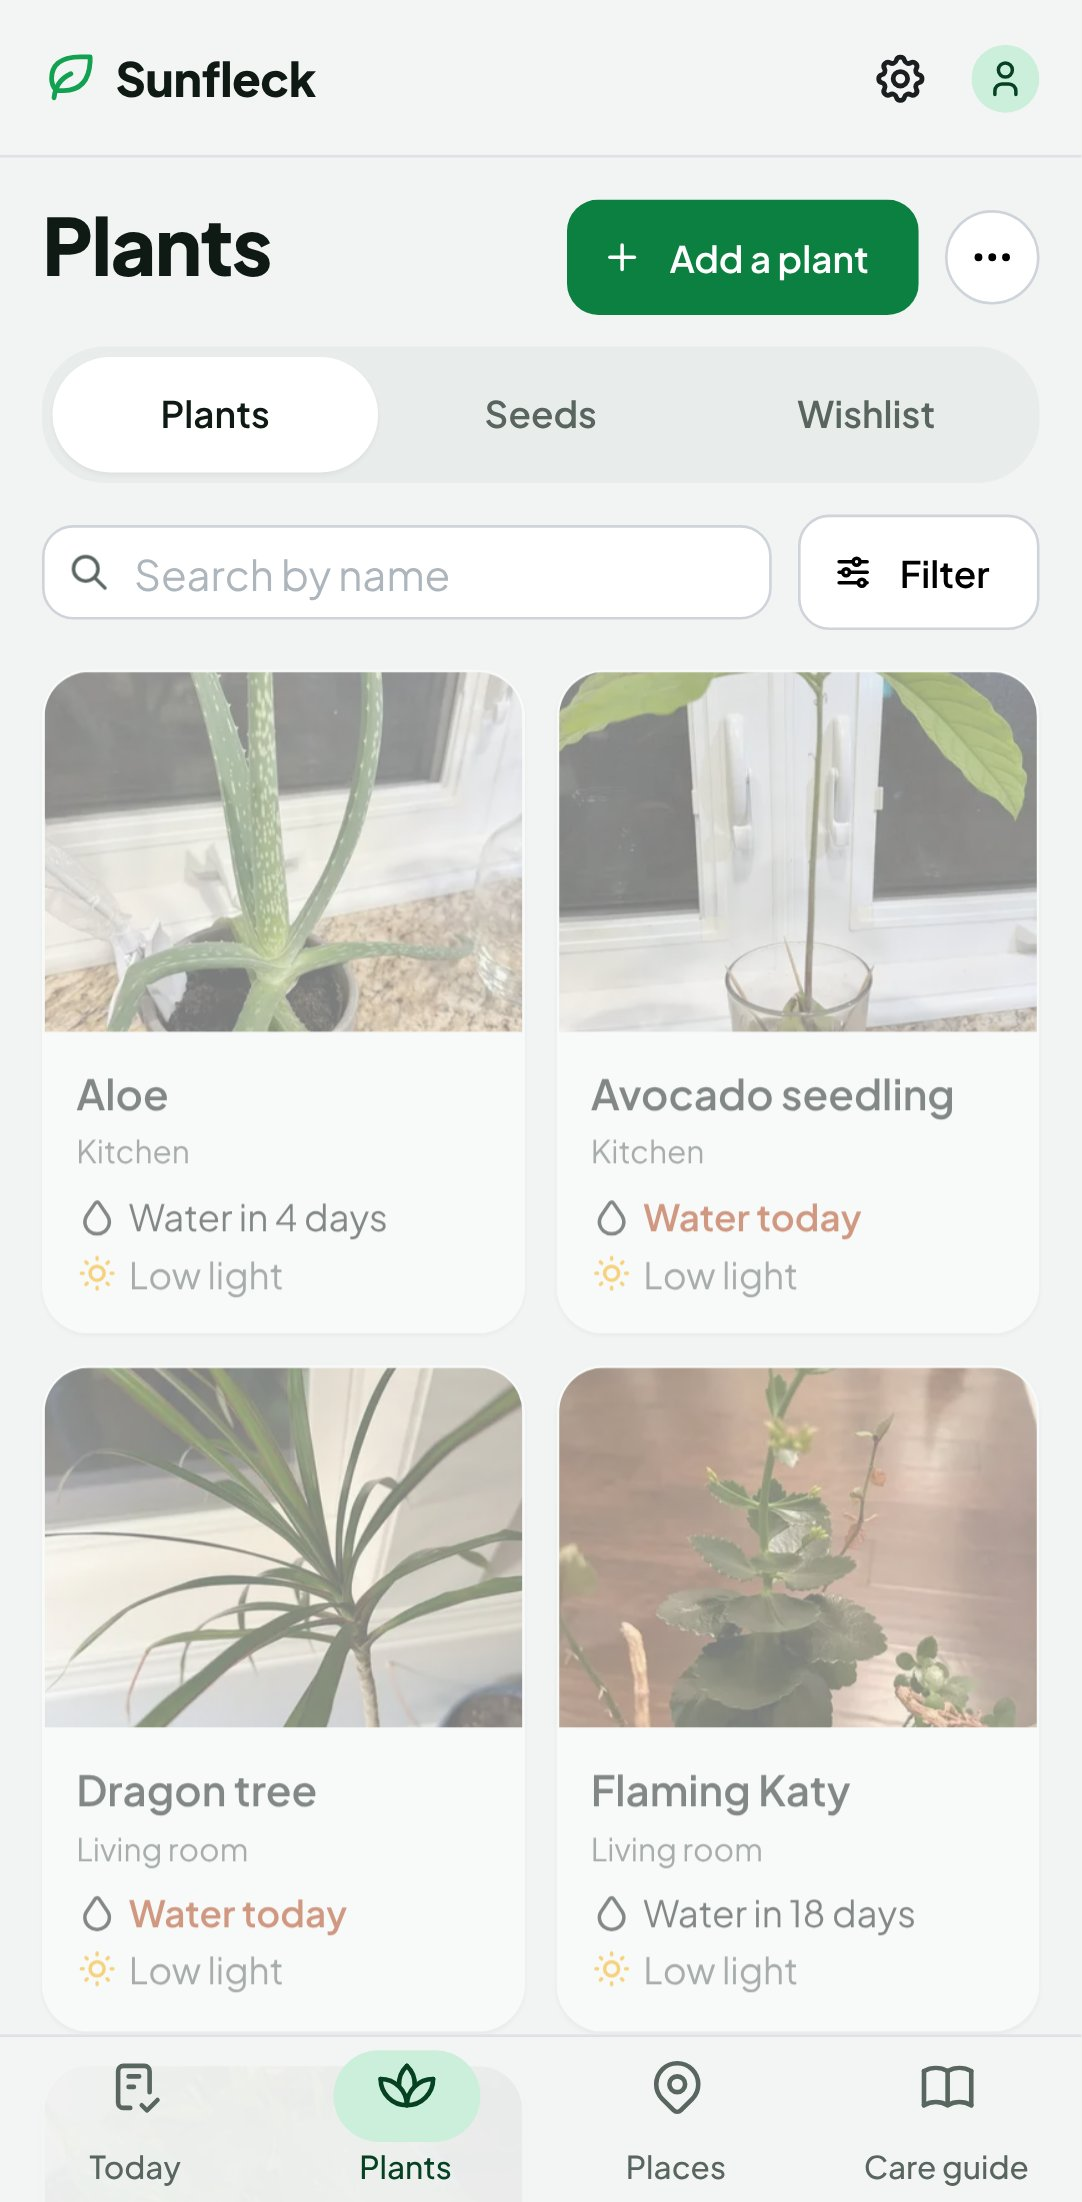
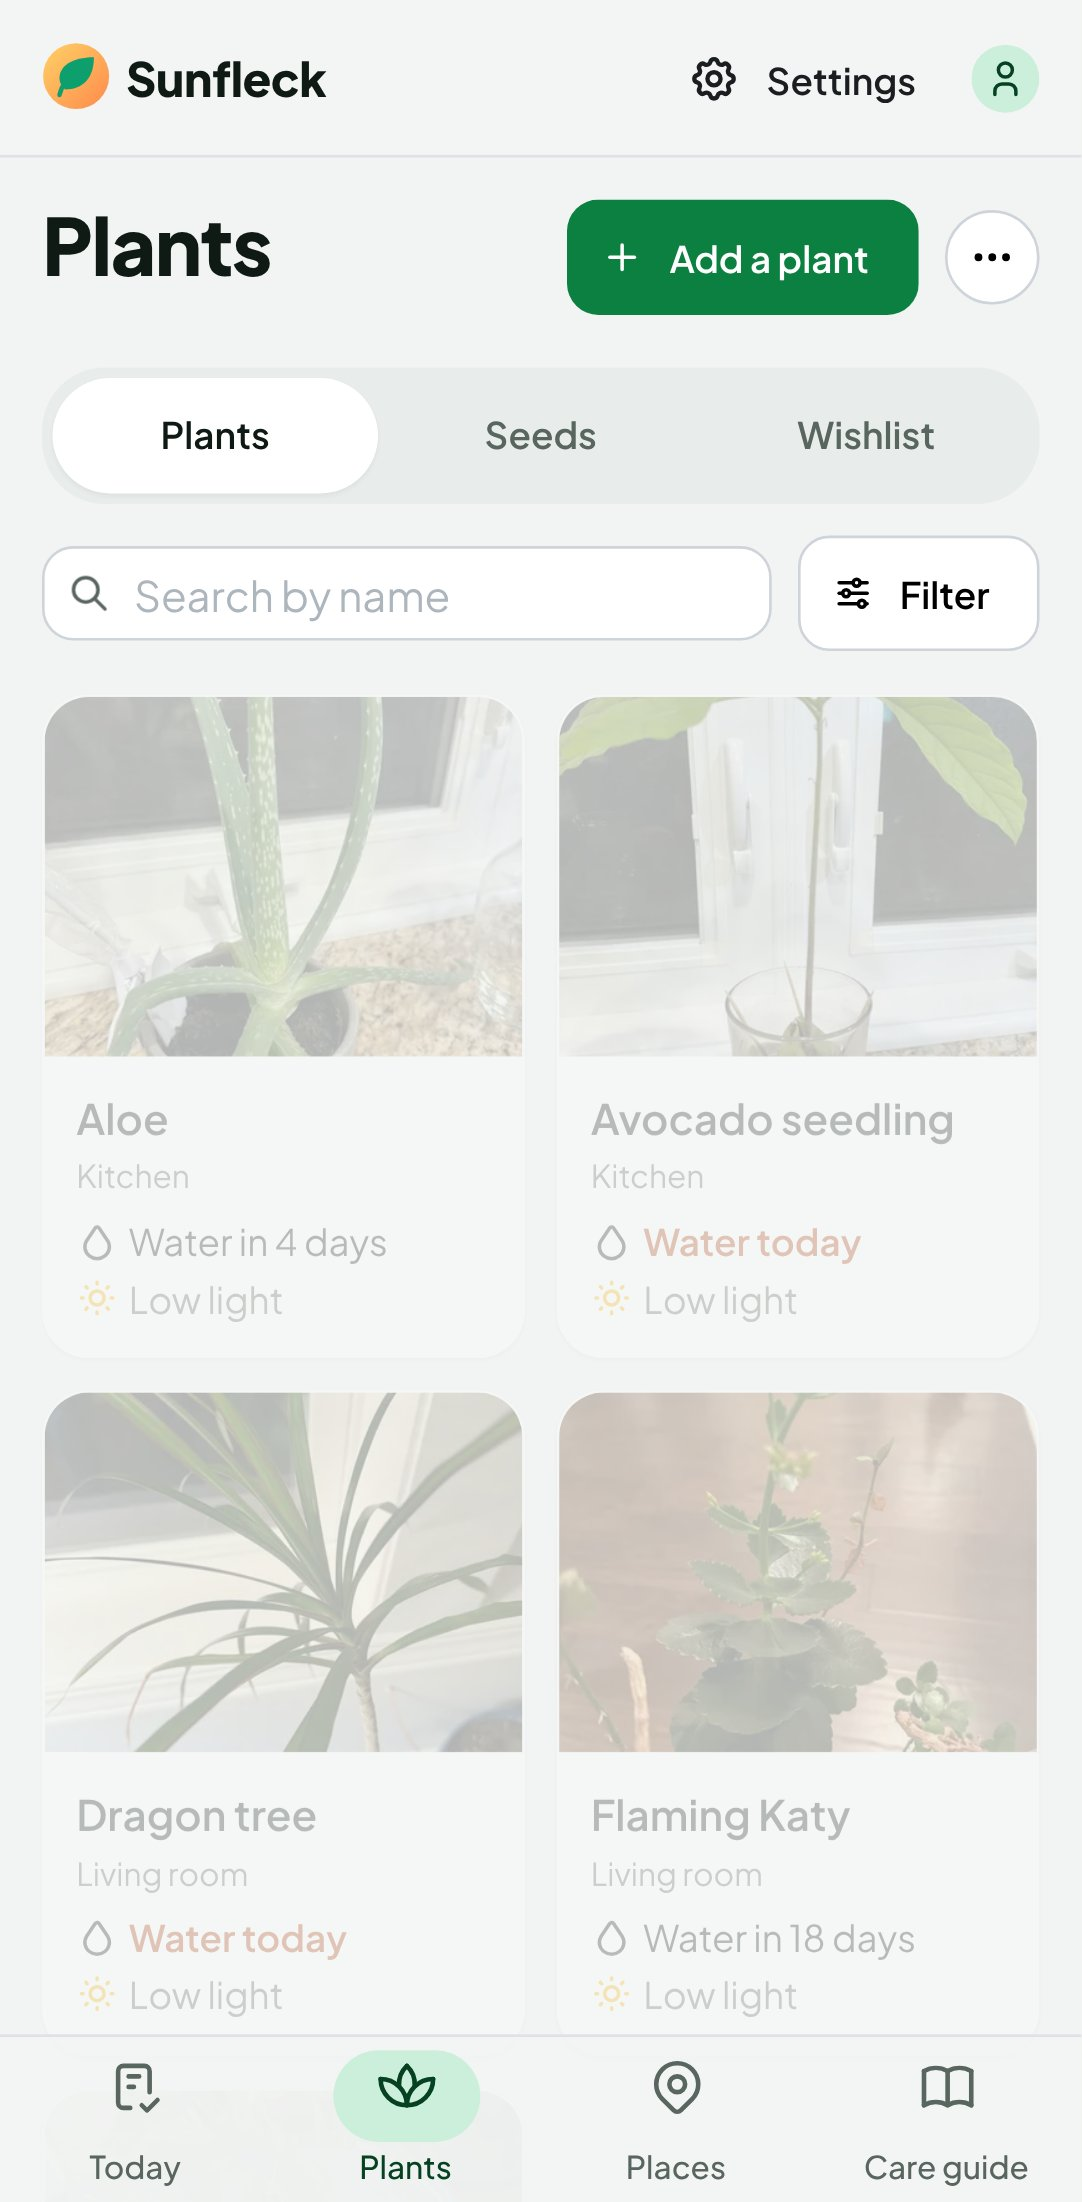
chore(release): 1.2.0 Lavender (#255)
## What does this PR do?

This is step 1 of
[Releasing](https://github.com/mazelado/sunfleck/blob/main/docs/development.md#releasing)
for **1.2.0 Lavender**. After it's merged, tagging `v1.2.0` on `main`
publishes the image and the GitHub release (step 2, below).

**What's in it**, all merged to `main` already. Everything planned for
[Lavender:
trust](https://github.com/mazelado/sunfleck/blob/main/docs/roadmap.md#lavender-trust-planned)
is done:

| PR | Change |
|---|---|
| mazelado/sunfleck#233 | The last 22 care profiles checked against
sources, and busy Lizzies' own profile |
| mazelado/sunfleck#234 | A schedule's history, next to what was
predicted |
| mazelado/sunfleck#235 | How often the soil was just right, in a
watering's history |
| mazelado/sunfleck#238 | Toxicity to pets for every plant a source
lists: 63 flags, up from 29 |
| mazelado/sunfleck#241 | Round 2 of the usability test, and its two
major fixes (reminders, invitations) |
| mazelado/sunfleck#250 to mazelado/sunfleck#254 | Round 2's minor
fixes: details after one tap, the pot link, the **Settings** label,
**Add a photo** on the cover, **Later** on a plant's page |

**Changes in this PR:**
- **`CHANGELOG.md`:** the *Unreleased* notes move under `## [1.2.0] -
2026-11-26`, which opens with `**Lavender.**` and a one-line summary.
The compare links are updated.
- **Version 1.2.0** is set in:
- `backend/pyproject.toml`, `backend/sunfleck/__init__.py` and
`frontend/package.json`.
[…]

diff --git a/backend/sunfleck/__init__.py b/backend/sunfleck/__init__.py
@@ -1,3 +1,3 @@
 """Sunfleck: self-hosted plant care for indoor and outdoor plants."""
 
-__version__ = "1.1.0"
+__version__ = "1.2.0"

diff --git a/docs/usability-test-results-1.2-round-2.md b/docs/usability-test-results-1.2-round-2.md
@@ -143,17 +143,17 @@ catastrophe, 3 major, 2 minor, 1 cosmetic (see the
 
 | # | Problem (what happened, where) | Who hit it | Severity | Fix, or issue |
 |---|---|---|---|---|
-| U12 | **Reminders seem set up when they aren't** (U10 again). On an iPhone in Safari, **This device** is a line of text with no button; the times and their **Save** below look like the whole setup, and saving them with nowhere to send says nothing about it | P1, P2, P3 | 3 | Fixed: on iPhone, **This device** lists the steps to add Sunfleck to the Home Screen; while no channel exists, the times and saving them say nothing is sent yet |
-| U13 | **Inviting someone saves the household instead** (U8 again). The invite card's **Send invitation** is missed; the household name's **Save**, the last button on the page, is pressed instead. P2 also took the member list's role menu for part of inviting, and tried to make the only Admin a Gardener | P1, P2 | 3 | Fixed: the household name's **Save** stays off until the name changes; leaving with an email typed but nobody invited asks first. Not done: no role menu on your own row when you're the only Admin |
-| U14 | **Put off is found late from a plant's page** (U1, partly). P2 tried adding a schedule and the care plans first. (P1's task didn't test it: see the differences at the top) | P2 | 2 | [#242](https://github.com/mazelado/sunfleck/issues/242): look at where **Put off** sits on a plant's page beside **Add a schedule** |
-| U15 | **Past care logged as today** (U2, partly). P1 logged today's watering instead of yesterday's, unsure it was right. One in three, on a task done now and then, but the wrong date teaches the prediction wrongly | P1 | 2 | [#243](https://github.com/mazelado/sunfleck/issues/243): after a watering, offer "Was it another day?" in the confirmation |
+| U12 | **Reminders seem set up when they aren't** (U10 again). On an iPhone in Safari, **This device** is a line of text with no button; the times and their **Save** below look like the whole setup, and saving them with nowhere to send says nothing about it | P1, P2, P3 | 3 | Fixed in [#241](https://github.com/mazelado/sunfleck/pull/241): on iPhone, **This device** lists the steps to add Sunfleck to the Home Screen; while no channel exists, the times and saving them say nothing is sent yet |
+| U13 | **Inviting someone saves the household instead** (U8 again). The invite card's **Create invitation** is missed; the household name's **Save**, the last button on the page, is pressed instead. P2 also took the member list's role menu for part of inviting, and tried to make the only Admin a Gardener | P1, P2 | 3 | Fixed in [#241](https://github.com/mazelado/sunfleck/pull/241): the household name's **Save** stays off until the name changes; leaving with an email typed but nobody invited asks first. Not done: no role menu on your own row when you're the only Admin |
+| U14 | **Put off is found late from a plant's page** (U1, partly). P2 tried adding a schedule and the care plans first. (P1's task didn't test it: see the differences at the top) | P2 | 2 | Fixed in [#254](https://github.com/mazelado/sunfleck/pull/254): when care is due, the **⋯** next to its button is a **Later** button, as on Today |
+| U15 | **Past care logged as today** (U2, partly). P1 logged today's watering instead of yesterday's, unsure it was right. One in three, on a task done now and then, but the wrong date teaches the prediction wrongly | P1 | 2 | Fixed in [#250](https://github.com/mazelado/sunfleck/pull/250): the confirmation after one-tap care offers **Add details or another day…** |
 | U16 | **Water all for a room isn't used** (U3, partly). Watering plant by plant still gets it done, just with more taps | P2, P3 | 1 | [#244](https://github.com/mazelado/sunfleck/issues/244): later; nothing lost |
-| U17 | **A new plant isn't saved** (U5, partly). P2 said they were done with the form still open. The question before leaving only shows when leaving, which they hadn't | P2 | 2 | [#245](https://github.com/mazelado/sunfleck/issues/245): check whether the **Save** is visible at the bottom of the form on a phone, or keep it in view |
-| U18 | **Adding a photo to a plant is uneven** (U6, partly). P3 missed the camera button on the cover and added it from the history, then missed **Crop**; P2 took **Edit** for editing the photo; P1 added it to another plant (cause not noted) and it didn't become the cover. P3 asked for a crop frame that's easier to stretch in every direction | P1, P2, P3 | 2 | [#246](https://github.com/mazelado/sunfleck/issues/246): a label on the cover's camera button ("Add photo"); look at the crop frame's handles on a phone |
-| U19 | **The pot size is hard to change.** All three looked in the care guide or tapped the pot in **About** before finding **Edit** at the top; the slowest task (2 minutes each) and the lowest ease (5 to 6). P3's hardest task | P1, P2, P3 | 2 | [#247](https://github.com/mazelado/sunfleck/issues/247): make the pot in **About** open the edit form at the pot (or an edit link beside it) |
-| U20 | **Settings is found after detours** (U9, partly). P1 looked in their profile, P2 in Today, the care guide and Plants, P3 in the plant's watering section | P1, P2, P3 | 2 | [#248](https://github.com/mazelado/sunfleck/issues/248): link Settings from the profile page; consider a label next to the gear |
-| U21 | **The amount of water is easy to skip.** It's a second step (**Add details or another day…**, or the history), after the water button | P2 | 2 | [#249](https://github.com/mazelado/sunfleck/issues/249): offer "How much?" in the confirmation after watering |
-| U22 | **The care guide is hard to read**, and is looked in for things it doesn't hold (the pot). "A lot of numbers and letters" (P2) | P1, P2, P3 | 1 | Issue: plain words before figures in the care guide |
+| U17 | **A new plant isn't saved** (U5, partly). P2 said they were done with the form still open. The question before leaving only shows when leaving, which they hadn't | P2 | 2 | [#245](https://github.com/mazelado/sunfleck/issues/245): not reproduced; **Save** stays in view on an emulated iPhone. To try on a real iPhone, with the keyboard open |
+| U18 | **Adding a photo to a plant is uneven** (U6, partly). P3 missed the camera button on the cover and added it from the history, then missed **Crop**; P2 took **Edit** for editing the photo; P1 added it to another plant (cause not noted) and it didn't become the cover. P3 asked for a crop frame that's easier to stretch in every direction | P1, P2, P3 | 2 | Partly fixed in [#253](https://github.com/mazelado/sunfleck/pull/253): the cover's button says **Add a photo**, and **Crop** stands out and stays longer. Still open in [#246](https://github.com/mazelado/sunfleck/issues/246): the crop frame's handles |
+| U19 | **The pot size is hard to change.** All three looked in the care guide or tapped the pot in **About** before finding **Edit** at the top; the slowest task (2 minutes each) and the lowest ease (5 to 6). P3's hardest task | P1, P2, P3 | 2 | Fixed in [#251](https://github.com/mazelado/sunfleck/pull/251): **Change** next to the pot in **About** opens the form at the pot size |
+| U20 | **Settings is found after detours** (U9, partly). P1 looked in their profile, P2 in Today, the care guide and Plants, P3 in the plant's watering section | P1, P2, P3 | 2 | Fixed in [#252](https://github.com/mazelado/sunfleck/pull/252): the gear at the top is labelled **Settings** |
+| U21 | **The amount of water is easy to skip.** It's a second step (**Add details or another day…**, or the history), after the water button | P2 | 2 | Fixed in [#250](https://github.com/mazelado/sunfleck/pull/250), with U15: **Add details or another day…** in the confirmation |
+| U22 | **The care guide is hard to read**, and is looked in for things it doesn't hold (the pot). "A lot of numbers and letters" (P2) | P1, P2, P3 | 1 | Later: plain words before figures in the care guide |
 | U23 | **The password rules come as a surprise** in setup | P2, P3 | 1 | Later: show the rules under the field before typing |
 | U24 | **Use my location is missed** when adding the home, so the weather has no place | P1, P3 | 1 | Later: say what the location is for next to the button |
 

diff --git a/docs/roadmap.md b/docs/roadmap.md
@@ -64,7 +64,7 @@ ships in one release or a few, and when plans change, only the release plan belo
 | **0.9 Iris** | [AI assistant](#iris-ai-assistant-released) | Released 2026-11-06 |
 | **1.0 Jasmine** | [Mature and beautiful](#jasmine-mature-and-beautiful-released) | Released 2026-11-14 |
 | **1.1 Kalanchoe** | [Care details](#kalanchoe-care-details-released) | Released 2026-11-20 |
-| **1.2 Lavender** | [Trust](#lavender-trust-planned) | Planned |
+| **1.2 Lavender** | [Trust](#lavender-trust-released) | Released 2026-11-26 |
 | **1.3 Monstera** | [Simple by default](#monstera-simple-by-default-planned) | Planned |
 | **1.4 Nasturtium** | [Sensors, to look at](#nasturtium-sensors-to-look-at-planned) | Planned |
 | **1.5 Orchid** | [Fertilizer](#orchid-fertilizer-planned) | Planned |
@@ -201,7 +201,7 @@ Split from Hibiscus (0.8), not yet scheduled.
 - A supplies inventory for soil and pots, with optional reminders to restock. (Fertilizers
   are planned in [Orchid](#orchid-fertilizer-planned).)
 - Statistics for the whole household. (A plant's own watering history is planned in
-  [Lavender](#lavender-trust-planned).)
+  [Lavender](#lavender-trust-released).)
 - A growth time-lapse from photos.
 
 ### Iris: AI assistant (released)
@@ -273,14 +273,15 @@ How it's built, so that more depth doesn't make the app harder:
   and automation is set up there.
 - **English and Spanish.** Other languages are welcome, as contributions.
 
-### Lavender: trust (planned)
+### Lavender: trust (released)
 
 Checking that what Sunfleck already says is right, before it says more.
 
 - **A second usability test, on phones,** with the 1.0 [test plan](usability-test.md). The
   fixes from the first round are in 1.0, but no one has checked that they work.
   [Round 2](usability-test.md#round-2-12) checks each of them, and adds tasks for the care
-  history.
+  history. Three people took part ([results](usability-test-results-1.2-round-2.md)); the
+  problems it found that were rated major are fixed in 1.2, with most of the minor ones.
 - **Care profiles checked against sources.** The eight used by the maintainer's own plants
   were checked first and shipped in 1.1 ([review](care-review-2026-11.md)); the other 22, and
   a new profile for busy Lizzies, are checked in [part 2](care-review-2026-11-part-2.md). Each

diff --git a/CHANGELOG.md b/CHANGELOG.md
@@ -9,6 +9,12 @@ make a backup ([how to upgrade](docs/install.md#upgrading)).
 
 ## [Unreleased]
 
+## [1.2.0] - 2026-11-26
+
+**Lavender.** Trust: every care profile checked against published sources, toxicity to pets
+for many more plants, a plant's care history next to what was predicted, and fixes from a
+second usability test, on phones.
+
 ### Added
 
 - **Add details right after one tap**: when care is logged with its button or Today's check
@@ -770,7 +776,8 @@ plants between locations, and finding plants without a care routine.
 - **Docker image** for `linux/amd64` and `linux/arm64`, with SQLite by default, PostgreSQL and
   Redis optional, and a background worker.
 
-[Unreleased]: https://github.com/mazelado/sunfleck/compare/v1.1.0...HEAD
+[Unreleased]: https://github.com/mazelado/sunfleck/compare/v1.2.0...HEAD
+[1.2.0]: https://github.com/mazelado/sunfleck/compare/v1.1.0...v1.2.0
 [1.1.0]: https://github.com/mazelado/sunfleck/compare/v1.0.3...v1.1.0
 [1.0.3]: https://github.com/mazelado/sunfleck/compare/v1.0.2...v1.0.3
 [1.0.2]: https://github.com/mazelado/sunfleck/compare/v1.0.1...v1.0.2

diff --git a/docs/usability-test.md b/docs/usability-test.md
@@ -11,7 +11,8 @@ It's run once per round, with the same tasks, so rounds can be compared:
   in 1.0.
 - **Round 2 (1.2), on phones:** whether round 1's fixes work, and the care history added
   since. See [round 2](#round-2-12) for what's different;
-  [results](usability-test-results-1.2-round-2.md). Its problems rated 3 are fixed before 1.2.
+  [results](usability-test-results-1.2-round-2.md). Its problems rated 3, and most rated 2,
+  were fixed in 1.2.
 
 - **Who runs it:** the maintainer (the *moderator*), with this plan.
 - **What's needed:** 3 to 5 people, about 45 minutes each (50 in round 2), a test copy of

diff --git a/docs/care-review-2026-11-part-2.md b/docs/care-review-2026-11-part-2.md
@@ -1,7 +1,7 @@
 # Care profile review: November 2026, part 2
 
 The second check of Sunfleck's care profiles against published sources, for the 1.2 Lavender
-release ([roadmap](roadmap.md#lavender-trust-planned)). It covers the 22 profiles still marked
+release ([roadmap](roadmap.md#lavender-trust-released)). It covers the 22 profiles still marked
 `draft` after [part 1](care-review-2026-11.md). **Approved and applied on 2026-11-20** (dataset
 2026.11.5): every change proposed below, with the [decisions](#decided-2026-11-20) at the end.
 All 22 profiles, and the new `shade_bedding`, are now marked `reviewed`.

diff --git a/docs/toxicity-review-2026-11.md b/docs/toxicity-review-2026-11.md
@@ -1,7 +1,7 @@
 # Toxicity to pets: November 2026 review
 
 Finishing the toxicity flags in the care dataset, for the 1.2 Lavender release
-([roadmap](roadmap.md#lavender-trust-planned)). 0.5 Echinacea flagged "the common houseplant
+([roadmap](roadmap.md#lavender-trust-released)). 0.5 Echinacea flagged "the common houseplant
 genera first"; the rest was never done, including every outdoor and edible plant added in 0.7
 Gardenia. **Approved and applied on 2026-11-20** (dataset 2026.11.6): every addition below,
 with the recommended option for each [decision](#decided-2026-11-20).

diff --git a/docs/care-review-2026-11.md b/docs/care-review-2026-11.md
@@ -1,7 +1,7 @@
 # Care profile review: November 2026
 
 The first check of Sunfleck's care profiles against published sources, for the 1.2 Lavender
-release ([roadmap](roadmap.md#lavender-trust-planned)). It covers the six profiles used by the
+release ([roadmap](roadmap.md#lavender-trust-released)). It covers the six profiles used by the
 maintainer's plants. **Approved and applied on 2026-11-16** (dataset 2026.11.4): every change
 proposed below, with the decisions at the end. The eight profiles involved, including two new
 ones, are now marked `reviewed`.
